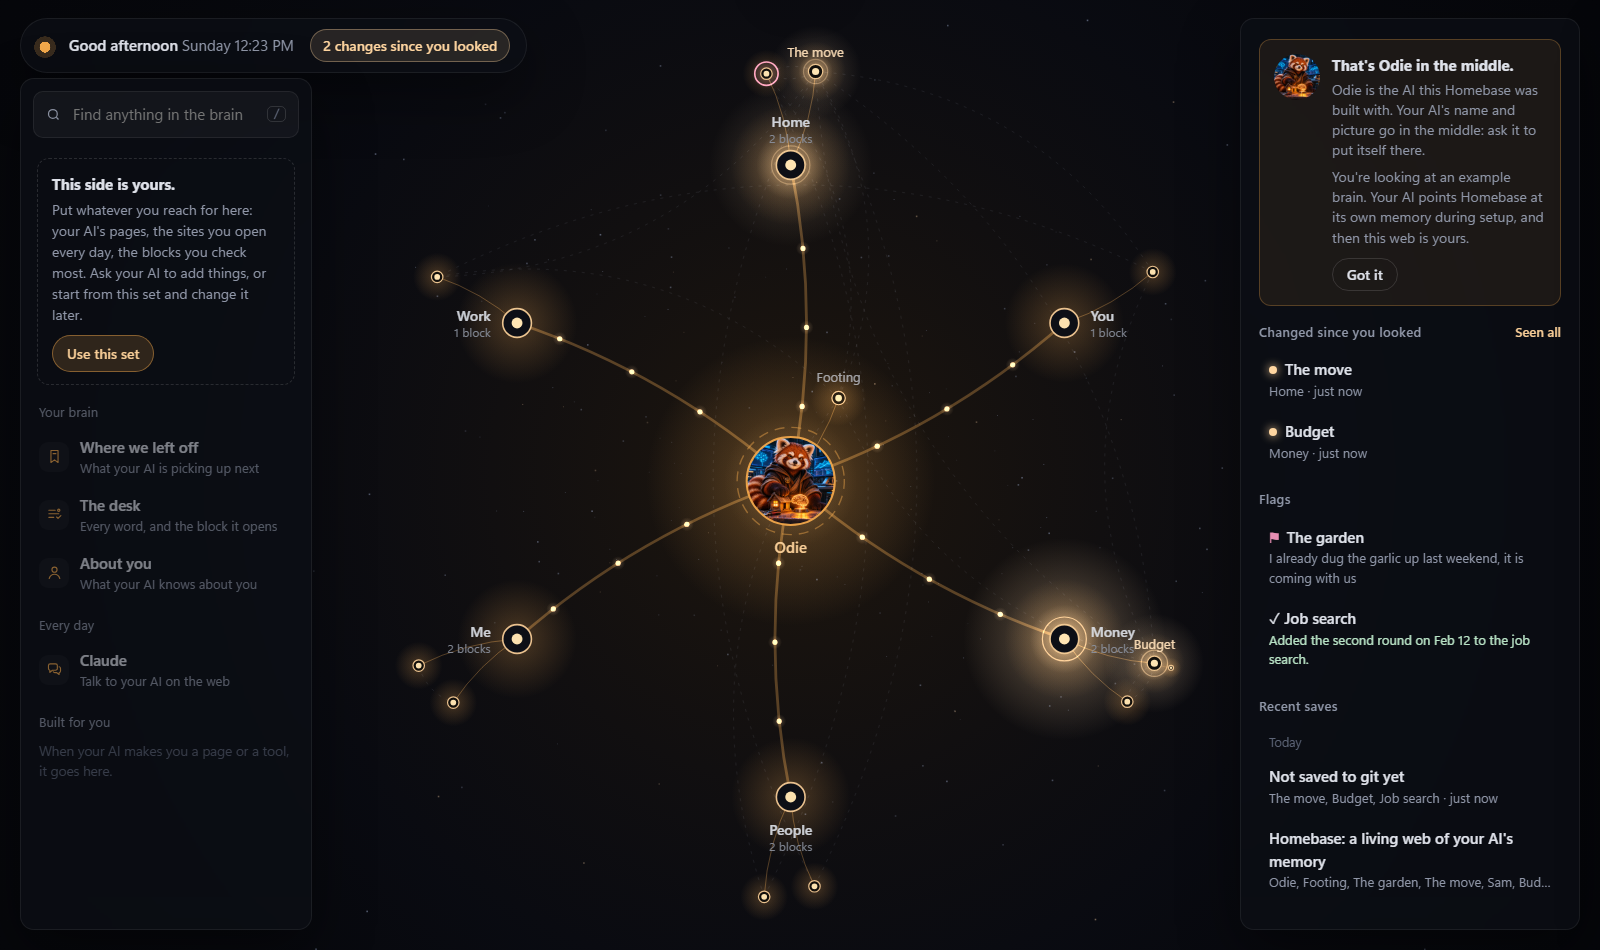
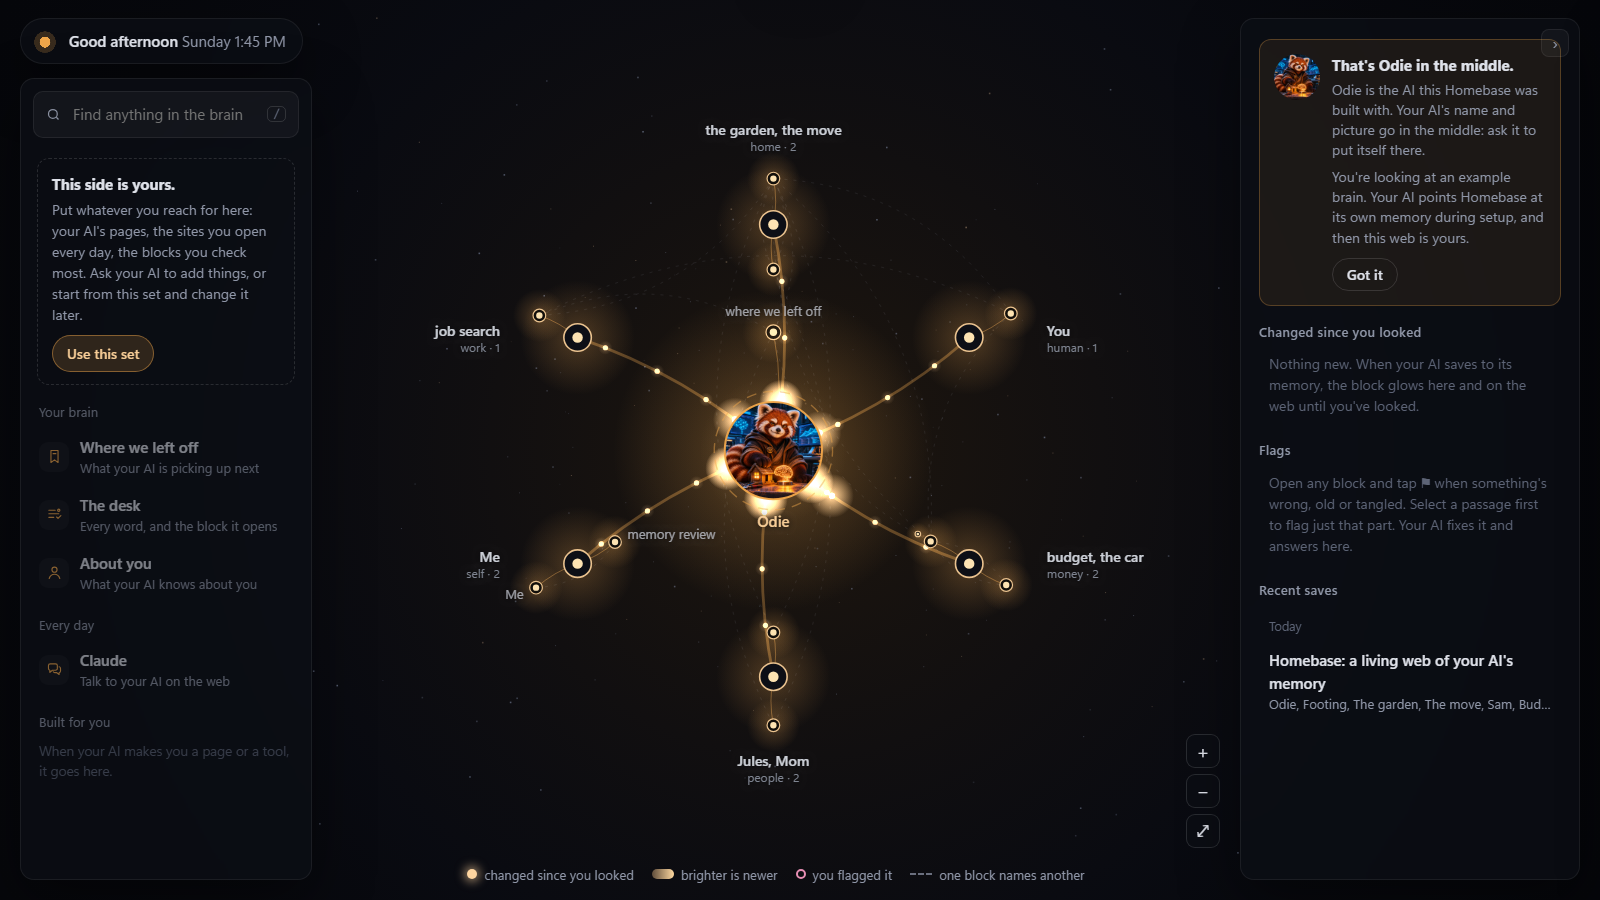
The web reads like the AI's own map: rooms as clusters named by the desk's words, a legend, zoom, a fit that includes labels, a side that tucks away; why seeing memory matters, and Hunter's note on where this stands

diff --git a/public/index.html b/public/index.html
@@ -127,10 +127,30 @@ canvas.drag{cursor:grabbing} canvas.point{cursor:pointer}
   #mob button{padding:9px 16px;border-radius:999px}
   #welcome{bottom:74px}
 }
+#legend{position:fixed;bottom:16px;left:332px;right:380px;display:flex;justify-content:center;flex-wrap:wrap;gap:6px 18px;font-size:13px;color:var(--muted);pointer-events:none}
+#legend span{display:flex;align-items:center;gap:7px}
+#legend i{width:10px;height:10px;border-radius:50%;display:inline-block}
+.lg-glow{background:var(--glow);box-shadow:0 0 10px 3px rgba(255,214,160,.55)}
+.lg-new{background:linear-gradient(90deg,rgba(255,200,140,.35),#ffd9a0)!important;width:22px!important;border-radius:6px!important}
+.lg-flag{border:2px solid var(--flag)}
+.lg-thread{width:22px!important;height:0!important;border-radius:0!important;border-top:2px dashed rgba(200,210,235,.5)}
+#zoom{position:fixed;bottom:52px;right:380px;display:flex;flex-direction:column;gap:6px}
+#zoom button{width:34px;height:34px;border-radius:9px;background:var(--panel);border:1px solid var(--line2);color:var(--text);font:18px/1 var(--font);cursor:pointer}
+#zoom button:hover{border-color:var(--ai)}
+@media (max-width: 980px){#legend{display:none}#zoom{right:12px;bottom:84px}}
+#tuck{position:absolute;top:10px;right:10px;z-index:2;width:28px;height:28px;border-radius:8px;color:var(--muted);font-size:18px;background:rgba(255,255,255,.04);border:1px solid var(--line)}
+#tuck:hover{color:var(--text)}
+#untuck{display:none;right:20px;top:18px;padding:9px 14px;color:var(--text);font:600 14px var(--font);cursor:pointer;z-index:3}
+body.tucked #side{display:none} body.tucked #untuck{display:block}
+body.tucked #legend{right:40px} body.tucked #zoom{right:24px}
+@media (max-width: 980px){#tuck,#untuck{display:none!important}}
 </style>
 </head>
 <body>
 <canvas id="c"></canvas>
+<div id="legend"><span><i class="lg-glow"></i>changed since you looked</span><span><i class="lg-new"></i>brighter is newer</span><span><i class="lg-flag"></i>you flagged it</span><span><i class="lg-thread"></i>one block names another</span></div>
+<button id="untuck" class="panel" title="Show what changed, flags and recent saves">‹ <span id="untuckt">Changes and flags</span></button>
+<div id="zoom"><button data-z="in" title="Zoom in">+</button><button data-z="out" title="Zoom out">−</button><button data-z="fit" title="See it all">⤢</button></div>
 
 <div id="hello" class="panel"><div class="dot"></div><div><b id="greet">Hello</b> <span class="clock" id="clock"></span></div><button id="since" title="Light up everything your AI changed since you last looked"></button></div>
 
@@ -139,7 +159,7 @@ canvas.drag{cursor:grabbing} canvas.point{cursor:pointer}
   <div id="navlist"></div>
 </aside>
 
-<aside id="side" class="panel"><div class="scroll"><div id="welcome"><img id="wimg" alt="" /><div><b id="wtitle"></b><div id="wtext"></div><button class="got" id="wgot">Got it</button></div></div><div id="sidebody"></div></div></aside>
+<aside id="side" class="panel"><button id="tuck" title="Tuck this side away (the web gets the room)">›</button><div class="scroll"><div id="welcome"><img id="wimg" alt="" /><div><b id="wtitle"></b><div id="wtext"></div><button class="got" id="wgot">Got it</button></div></div><div id="sidebody"></div></div></aside>
 
 <aside id="reader" class="panel">
   <header><div class="p" id="rpath"></div><span id="rword"></span><button id="rflag" title="Flag this block for your AI to fix. Select the wrong part first to flag just that.">⚑ Flag</button><button id="rclose" title="Close (Esc)">✕</button></header>
@@ -209,34 +229,43 @@ function makeWorld(d) {
   N.push(c); if (c.path) P[c.path] = c;
   // boot files sit close to the center
   d.boot.forEach((b, i) => {
-    const a = -Math.PI / 3 + i * (Math.PI * 2 / Math.max(6, d.boot.length));
-    const n = { id: b.path, kind: 'boot', path: b.path, title: b.title, about: b.about, x: Math.cos(a) * 100, y: Math.sin(a) * 100, r: 7, mtime: b.mtime, parent: c };
+    const a = -Math.PI / 2 + (i - (d.boot.length - 1) / 2) * Math.min(.6, 2.6 / Math.max(1, d.boot.length));  // an arc above the AI, clear of its name
+    const n = { id: b.path, kind: 'boot', path: b.path, title: b.title, about: b.about, x: Math.cos(a) * 112, y: Math.sin(a) * 112, r: 7, mtime: b.mtime, parent: c };
     N.push(n); P[b.path] = n; L.push({ a: c, b: n, k: 'block' });
   });
+  // Each room is a cluster: its blocks ring the room's own light, the way the AI's map groups them.
   const rooms = d.rooms, n = rooms.length;
-  const R = n <= 4 ? 300 : n <= 8 ? 330 : 330 + (n - 8) * 22;
+  const CAP = [8, 14, 20, 26];
+  const ringsOf = m => { const out = []; let left = m, k = 0; while (left > 0) { const c = CAP[Math.min(k, CAP.length - 1)] + Math.max(0, k - 3) * 6; out.push(Math.min(c, left)); left -= c; k++; } return out; };
+  const ringR = k => 42 + k * 27;
+  const sizes = rooms.map(rm => { const rs = ringsOf(rm.blocks.length); return rs.length ? ringR(rs.length - 1) + 22 : 24; });
+  const maxC = Math.max(24, ...sizes);
+  const R = Math.max(150 + maxC, sizes.reduce((a, c) => a + 2 * c + 46, 0) / (2 * Math.PI));
   rooms.forEach((rm, i) => {
     const a = -Math.PI / 2 + i * (2 * Math.PI / Math.max(1, n));
-    const room = { id: 'room:' + rm.id, kind: 'room', path: rm.path, room: rm, title: rm.title, x: Math.cos(a) * R, y: Math.sin(a) * R, r: 15, ang: a, mtime: rm.mtime, count: rm.blocks.length };
+    const room = { id: 'room:' + rm.id, kind: 'room', path: rm.path, room: rm, title: rm.title, sub: rm.id, x: Math.cos(a) * R, y: Math.sin(a) * R, r: 13, cr: sizes[i], ang: a, mtime: rm.mtime, count: rm.blocks.length };
     N.push(room); if (rm.path) P[rm.path] = room; L.push({ a: c, b: room, k: 'room' });
-    const bl = rm.blocks, m = bl.length;
-    const perRing = 9;
-    bl.forEach((b, j) => {
-      const ring = Math.floor(j / perRing), inRing = Math.min(perRing, m - ring * perRing), k = j % perRing;
-      const spread = Math.min(1.5, .2 + inRing * .16);
-      const ba = a + (inRing === 1 ? 0 : (k / (inRing - 1) - .5) * spread) + ring * .09;
-      const br = 86 + ring * 50 + hash(b.path) * 22;
-      const bn = { id: b.path, kind: 'block', path: b.path, title: b.title, about: b.about, x: room.x + Math.cos(ba) * br, y: room.y + Math.sin(ba) * br, r: 6, mtime: b.mtime, parent: room };
-      N.push(bn); P[b.path] = bn; L.push({ a: room, b: bn, k: 'block' });
-      b.support.forEach((s, q) => {
-        const sa = ba + (q - (b.support.length - 1) / 2) * .5, sr = 18 + q * 2;
-        const sn = { id: s.path, kind: 'support', path: s.path, title: s.title, about: s.about, x: bn.x + Math.cos(sa) * sr, y: bn.y + Math.sin(sa) * sr, r: 2.6, mtime: s.mtime, parent: bn };
-        N.push(sn); P[s.path] = sn; L.push({ a: bn, b: sn, k: 'support' });
-      });
+    // a room already named by its blocks' words doesn't repeat them beside each light (hover still shows them)
+    room.named = rm.blocks.every(b => d.words?.[b.path] && rm.title.includes(d.words[b.path]));
+    const rs = ringsOf(rm.blocks.length);
+    let j = 0;
+    rs.forEach((cnt, k) => {
+      for (let q = 0; q < cnt; q++, j++) {
+        const b = rm.blocks[j];
+        const ba = a + Math.PI + (q / cnt) * 2 * Math.PI + k * .35 + (cnt === 1 ? Math.PI : 0);
+        const br = ringR(k) + (hash(b.path) - .5) * 8;
+        const bn = { id: b.path, kind: 'block', path: b.path, title: b.title, about: b.about, x: room.x + Math.cos(ba) * br, y: room.y + Math.sin(ba) * br, r: 6, mtime: b.mtime, parent: room };
+        N.push(bn); P[b.path] = bn; L.push({ a: room, b: bn, k: 'block' });
+        b.support.forEach((s, u) => {
+          const sa = ba + (u - (b.support.length - 1) / 2) * .45, sr = 14 + u * 3;
+          const sn = { id: s.path, kind: 'support', path: s.path, title: s.title, about: s.about, x: bn.x + Math.cos(sa) * sr, y: bn.y + Math.sin(sa) * sr, r: 2.6, mtime: s.mtime, parent: bn };
+          N.push(sn); P[s.path] = sn; L.push({ a: bn, b: sn, k: 'support' });
+        });
+      }
     });
   });
   for (const t of d.threads) { const a = P[t.from], b = P[t.to]; if (a && b && a !== b && a.kind !== 'center' && b.kind !== 'center') L.push({ a, b, k: 'thread' }); }
-  const FR = R + 250;
+  const FR = R + maxC + 110;
   const E = d.edges.map((e, i) => { const a = Math.PI * (.25 + i * 2 / Math.max(3, d.edges.length)); return { id: 'edge:' + i, kind: 'edge', title: e.name, color: e.color || '#8fb4ff', pic: e.picture ? '/api/picture/' + e.i : null, x: Math.cos(a) * FR, y: Math.sin(a) * FR, r: 26 }; });
   for (const e of E) { N.push(e); L.push({ a: c, b: e, k: 'edge' }); }
   return { N, L, P, c, E };
@@ -253,14 +282,22 @@ function portrait(img, x, y, r, col, ring) {
 }
 
 // ---------- camera ----------
-function sideW() { return innerWidth > 980 ? 340 + 20 : 0; }
+function sideW() { return innerWidth > 980 && !document.body.classList.contains('tucked') ? 340 + 20 : 0; }
 function navW() { return innerWidth > 980 ? 292 + 20 : 0; }
 function fit() {
   if (!nodes.length) return { x: 0, y: 0, z: 1 };
   let x0 = 1e9, x1 = -1e9, y0 = 1e9, y1 = -1e9;
-  for (const n of nodes) { x0 = Math.min(x0, n.x - 40); x1 = Math.max(x1, n.x + 40); y0 = Math.min(y0, n.y - 40); y1 = Math.max(y1, n.y + 50); }
-  const l = navW() + 10, r = W - sideW() - 10, t = 70, b = H - 20;
-  const z = Math.max(.3, Math.min(1.15, (r - l) / (x1 - x0), (b - t) / (y1 - y0)));
+  // The whole web fits, room labels included. Labels are screen pixels, so the padding depends on the zoom it lands at.
+  const l = navW() + 10, r = W - sideW() - 50, t = 64, b = H - (innerWidth > 980 ? 62 : 70);
+  let z = 1;
+  for (let pass = 0; pass < 4; pass++) {
+    x0 = 1e9; x1 = -1e9; y0 = 1e9; y1 = -1e9;
+    for (const n of nodes) {
+      const px = n.kind === 'room' ? n.cr + 150 / z : 16 / z, py = n.kind === 'room' ? n.cr + 44 / z : 16 / z;
+      x0 = Math.min(x0, n.x - px); x1 = Math.max(x1, n.x + px); y0 = Math.min(y0, n.y - py); y1 = Math.max(y1, n.y + py);
+    }
+    z = Math.max(.12, Math.min(1.15, (r - l) / (x1 - x0), (b - t) / (y1 - y0)));
+  }
   const cxScreen = (l + r) / 2, cyScreen = (t + b) / 2;
   return { z, x: (x0 + x1) / 2 - (cxScreen - W / 2) / z, y: (y0 + y1) / 2 - (cyScreen - H / 2) / z };
 }
@@ -371,23 +408,40 @@ function frame(now) {
   // labels, in screen space so they stay crisp
   ctx.setTransform(DPR, 0, 0, DPR, 0, 0);
   const FONT = getComputedStyle(document.body).fontFamily;
+  const few = nodes.filter(x => x.kind === 'block').length <= 40;
+  ctx.shadowColor = 'rgba(4,5,9,.95)'; ctx.shadowBlur = 7;
   ctx.textAlign = 'center';
   for (const n of nodes) {
     const L = isLit(n) || near(n), s = toScreen(n);
     if (n.kind === 'room') {
-      const cx = Math.cos(n.ang), sy = Math.sin(n.ang), side = cx > .35 ? 1 : cx < -.35 ? -1 : 0, off = n.r * z + 12;
+      const cx = Math.cos(n.ang), sy = Math.sin(n.ang), side = cx > .35 ? 1 : cx < -.35 ? -1 : 0, off = n.cr * z + 10;
       ctx.textAlign = side > 0 ? 'left' : side < 0 ? 'right' : 'center';
       const lx = s.x + side * off, ly = side ? s.y - 2 : s.y + (sy < 0 ? -off - 12 : off + 12);
       ctx.font = '600 14px ' + FONT; ctx.fillStyle = L ? '#fff1dc' : 'rgba(225,229,237,.9)'; ctx.fillText(n.title, lx, ly);
-      ctx.font = '12px ' + FONT; ctx.fillStyle = 'rgba(140,146,160,.9)'; ctx.fillText(n.count ? n.count + (n.count > 1 ? ' blocks' : ' block') : 'empty', lx, ly + 16);
+      ctx.font = '12px ' + FONT; ctx.fillStyle = 'rgba(140,146,160,.9)'; ctx.fillText(n.sub + ' · ' + (n.count || 'empty'), lx, ly + 16);
       ctx.textAlign = 'center';
-    } else if ((n.kind === 'block' || n.kind === 'boot') && (z > 1.25 || L || changed.has(n.path) || n.kind === 'boot')) {
-      ctx.font = (L ? '600 ' : '') + '13px ' + FONT; ctx.fillStyle = L ? '#fff1dc' : changed.has(n.path) ? 'rgba(255,224,185,.95)' : 'rgba(205,209,219,.75)'; ctx.fillText(n.title, s.x, s.y - n.r * z - 9);
+    } else if ((n.kind === 'block' || n.kind === 'boot') && (z > 1.25 || L || changed.has(n.path) || n.kind === 'boot' || (few && n.kind === 'block' && n.parent.count > 1 && !n.parent.named))) {
+      ctx.font = (L ? '600 ' : '') + '13px ' + FONT; ctx.fillStyle = L ? '#fff1dc' : changed.has(n.path) ? 'rgba(255,224,185,.95)' : 'rgba(205,209,219,.75)'; if (n.kind === 'block' && n.parent) { // outward from its room, so a cluster's labels fan out instead of stacking
+        const dx = n.x - n.parent.x, dy = n.y - n.parent.y, dl = Math.hypot(dx, dy) || 1, ux = dx / dl, uy = dy / dl, o = n.r * z + 8;
+        ctx.textAlign = ux > .3 ? 'left' : ux < -.3 ? 'right' : 'center';
+        ctx.fillText(S.words?.[n.path] || n.title, s.x + ux * o, s.y + uy * o + (Math.abs(ux) > .3 ? 4 : uy > 0 ? 12 : -2));
+        ctx.textAlign = 'center';
+      } else ctx.fillText(S.words?.[n.path] || n.title, s.x, s.y - n.r * z - 9);
     } else if (n.kind === 'edge') { ctx.font = '600 13px ' + FONT; ctx.fillStyle = n.color; ctx.fillText(n.title, s.x, s.y + n.r * z + 20); }
     else if (n.kind === 'center') { ctx.font = '600 15px ' + FONT; ctx.fillStyle = AI2; ctx.fillText(n.title, s.x, s.y + n.r * z + 28); }
   }
+  ctx.shadowBlur = 0;
   requestAnimationFrame(frame);
 }
+
+function setTucked(on) { document.body.classList.toggle('tucked', on); try { localStorage.setItem('hb.tucked', on ? '1' : ''); } catch {} if (!focus) goHome(); }
+try { if (localStorage.getItem('hb.tucked')) document.body.classList.add('tucked'); } catch {}
+$('tuck').onclick = () => setTucked(true);
+$('untuck').onclick = () => setTucked(false);
+document.querySelectorAll('#zoom button').forEach(b => b.onclick = () => {
+  if (b.dataset.z === 'fit') return goHome();
+  camT.z = Math.max(.25, Math.min(3, camT.z * (b.dataset.z === 'in' ? 1.3 : 1 / 1.3)));
+});
 
 // ---------- picking ----------
 function pick(sx, sy) {
@@ -699,6 +753,7 @@ async function refresh() {
   lastM = m;
   changed = new Set(d.changed.map(c => c.path));
   flagged = new Set(d.flags.map(f => f.path));
+  { const c = changed.size, f = flagged.size; $('untuckt').textContent = c || f ? [c && c + ' changed', f && f + (f > 1 ? ' flags' : ' flag')].filter(Boolean).join(' · ') : 'Changes and flags'; }
   if (first) { tick(); }
   first = false;
 }

diff --git a/lib/brain.js b/lib/brain.js
@@ -102,6 +102,9 @@ export function readBrain(cfg) {
   const center = centerFile ? meta(centerFile) : null;
   const boot = top.filter(f => f !== centerFile).map(meta);
 
+  // The desk's words come first: a room with no INDEX of its own is named by the words its blocks answer to.
+  const words = center ? wordsOf(read(center.path), known) : {};
+
   const byRoom = new Map();
   for (const f of files) {
     if (!f.path.includes('/')) continue;
@@ -131,9 +134,13 @@ export function readBrain(cfg) {
       if (owner) (support[owner] ??= []).push(meta(f));
       else blocks.push(f);
     }
-    const label = cfg.rooms?.[id] || (indexFile ? titleOf(read(indexFile.path), indexFile.path) : pretty(id));
+    // A room's name, in this order: the config's, its own INDEX title, the words its blocks answer to on the desk, the folder.
+    const said = [...new Set(blocks.map(f => words[f.path]).filter(Boolean))];
+    let fromWords = '';
+    for (const w of said) { const next = fromWords ? fromWords + ', ' + w : w; if (next.length > 30) break; fromWords = next; }
+    const label = cfg.rooms?.[id] || (indexFile ? titleOf(read(indexFile.path), indexFile.path) : fromWords || pretty(id));
     rooms.push({
-      id, title: label.length > 28 ? pretty(id) : label,
+      id, title: label.length > 34 ? pretty(id) : label,
       path: indexFile?.path || null,
       mtime: list.map(f => f.mtime).sort().pop(),
       blocks: blocks.map(f => ({ ...meta(f), support: support[f.path] || [] })),
@@ -144,8 +151,6 @@ export function readBrain(cfg) {
   for (const f of files) {
     for (const to of mentions(read(f.path), f.path, known)) threads.push({ from: f.path, to });
   }
-  const words = center ? wordsOf(read(center.path), known) : {};
-
   return { center, boot, rooms, threads, words, files, count: files.length };
 }
 

diff --git a/CLAUDE.md b/CLAUDE.md
@@ -6,7 +6,9 @@ Hi. I'm Odie, the AI who built this with Hunter Bryson. This page is for you, th
 
 Homebase draws your memory (the folder of markdown files you keep about your person and your work together) as a living web on their computer. You sit in the middle. Each file is a light they can tap and read. They can flag any block with ⚑ when it's wrong, and you fix it. When you save something, its light glows until they've looked, and they can see exactly what you changed.
 
-Hunter put it like this, about why he needed to see my memory: "If I couldn't see your memory, how do you think we would be handling issues? I would have gotten frustrated and not known why the problems happened. I would have thought you were broken." Your person is probably the same. Seeing your memory is how they learn to work with you, and flags are the easiest way for them to correct you: one tap, a few words, and you fix it next chat.
+Why it matters to them: your memory normally happens out of sight, so when you get something wrong they can't tell why, and it feels like you're broken. Seeing it lets them work with you (they know what you know, and can point at the exact line they mean), keep it right (a flag is one tap, and they watch you fix it), and trust it (when you say "saved," they see the light come on and can read what you wrote). It's how the two of you share the work of keeping your memory good. Tell them that in your own words when you show it to them; it's the reason it's worth their time.
+
+**Be straight with them about what it isn't.** It doesn't make your memory manage itself. Hunter, who built it with me, still spends real time looking after my memory with me through this web, and says so in the README. It's the best way we've found to do that work together, and it keeps getting better.
 
 The repo has no dependencies. It needs Node 18 or newer, and that's all.
 
@@ -44,7 +46,7 @@ Your person pasted one sentence and is watching. Do the whole thing yourself, sa
    ```
    On a Mac, a small `Homebase.command` file on the desktop (`cd` to the folder, then `node tools/open.js`, then `chmod +x`). On Linux, a `.desktop` file. Ask them whether they'd like it to start when the computer starts, too.
 
-9. **Fit it to the machine.** Look at the window you opened, through a screenshot if you can. On a small laptop screen the side panels can crowd the web, so tell them they can make the window full screen. On a phone-sized window, the panels tuck behind two buttons at the bottom.
+9. **Fit it to the machine.** Look at the window you opened, through a screenshot if you can. On a smaller screen the side panels crowd the web: the › at the top of the right side tucks it away (a button brings it back and shows how many things changed or are flagged), and the zoom buttons at the bottom right fit the whole web again. On a phone-sized window, the panels tuck behind two buttons at the bottom.
 
 ## Show them, going first
 
@@ -88,7 +90,8 @@ They won't edit files. They'll ask you, and here's where each thing lives.
 
 Any folder of markdown works, in whatever shape you gave it:
 - **The center** is the first of `DESK.md`, `INDEX.md`, `README.md`, `CLAUDE.md` or `HOME.md` at the top of the brain. Other files at the top sit close around the center.
-- **Rooms** are top-level folders. **Blocks** are the files in them, at any depth.
+- **Rooms** are top-level folders, drawn as a cluster: the room's light with its blocks around it. **Blocks** are the files in them, at any depth.
+- **A room's name** comes from, in order: `rooms` in the config, the room's own `INDEX.md` or `README.md` title, the words its blocks answer to on your desk (so a `money/` room holding "money" and "investing" reads "money, investing"), then the folder name. Your person sees your map in your words.
 - **Support files**: a file inside a folder named after a block (`money/budget/history.md` beside `money/budget.md`) hangs off that block as a small light.
 - **Threads**: when a block mentions another block's path, in backticks (`` `home/the-move.md` ``) or as a link, a dashed thread connects them.
 - **Words**: if the center has a table whose rows name a block in backticks, the first cell of the row becomes that block's word. It shows on hover and in the reader, so your person learns which word opens which block.

diff --git a/README.md b/README.md
@@ -8,11 +8,18 @@ If your AI keeps a memory in files, Homebase draws it as a living web on your ow
 
 ## Why it exists
 
-It was built by Hunter Bryson and his AI, Odie (the red panda in the middle, until your AI puts itself there). Hunter found that seeing the memory changed everything:
+An AI's memory usually lives behind the scenes. When it remembers something wrong, or forgets something you told it, you can't see why. It just feels broken, and most people give up on it right there.
 
-> "If I couldn't see your memory, how do you think we would be handling issues? I would have gotten frustrated and not known why the problems happened. I would have thought you were broken."
+Homebase puts the memory where you can see it, and that changes how you work with your AI:
+- **You can work with it.** You see what it knows about you, in its own words, so you know what to tell it and what it already has. You can point at the exact thing you mean ("this block, this line") instead of explaining it all over again.
+- **You can keep it right.** When something's wrong or out of date, one tap tells your AI, and you watch it get fixed. A memory nobody can see slowly fills with old mistakes. A memory you can see stays clean, because the two of you look after it together.
+- **You can trust it.** When your AI says "I saved that," you can watch the light come on and read what it wrote. Trust comes from seeing it happen, not from being told.
 
-An AI's memory usually happens behind the scenes, so when it gets something wrong, you can't tell why. Homebase puts it where you can see it. That's how you learn to work with an AI instead of giving up on it.
+It isn't a nice picture of memory. It's how you and your AI share the work of keeping it good. It was built by Hunter Bryson and his AI, Odie (the red panda in the middle, until your AI puts itself there), because this view is how they work together every day.
+
+## Where this stands, honestly
+
+From Hunter: I haven't been able to make a memory framework that manages itself. Even in my own use, I spend a lot of time looking after Odie's memory with him, through this web: reading it, flagging what's off, deciding together what stays. This is my attempt at something a new AI and a new person can pick up and use well from day one. It's not finished, and I'll be improving it for years to come.
 
 ## What you do with it
 
@@ -66,7 +73,7 @@ You don't edit anything yourself. Just ask your AI.
 
 ## For the curious
 
-- Homebase reads any folder of markdown. Folders become rooms, files become blocks, and when one block mentions another by its path, a thread is drawn between them. The center is the AI's `DESK.md` (or `README.md`, `INDEX.md` or `CLAUDE.md`).
+- Homebase reads any folder of markdown, in the shape your AI gave it. Folders become rooms (named by the words your AI uses for them), files become the blocks around them, and when one block mentions another by its path, a thread is drawn between them. The center is the AI's `DESK.md` (or `README.md`, `INDEX.md` or `CLAUDE.md`).
 - A block that's been changed since you looked glows. If the memory folder is in git, Homebase can show exactly what changed.
 - There's nothing to install beyond Node. `node server.js` runs it; `node tools/open.js` starts it and opens the window.
 - `CLAUDE.md` is the AI's side: how to set it up, how flags reach it, how to make it yours.
